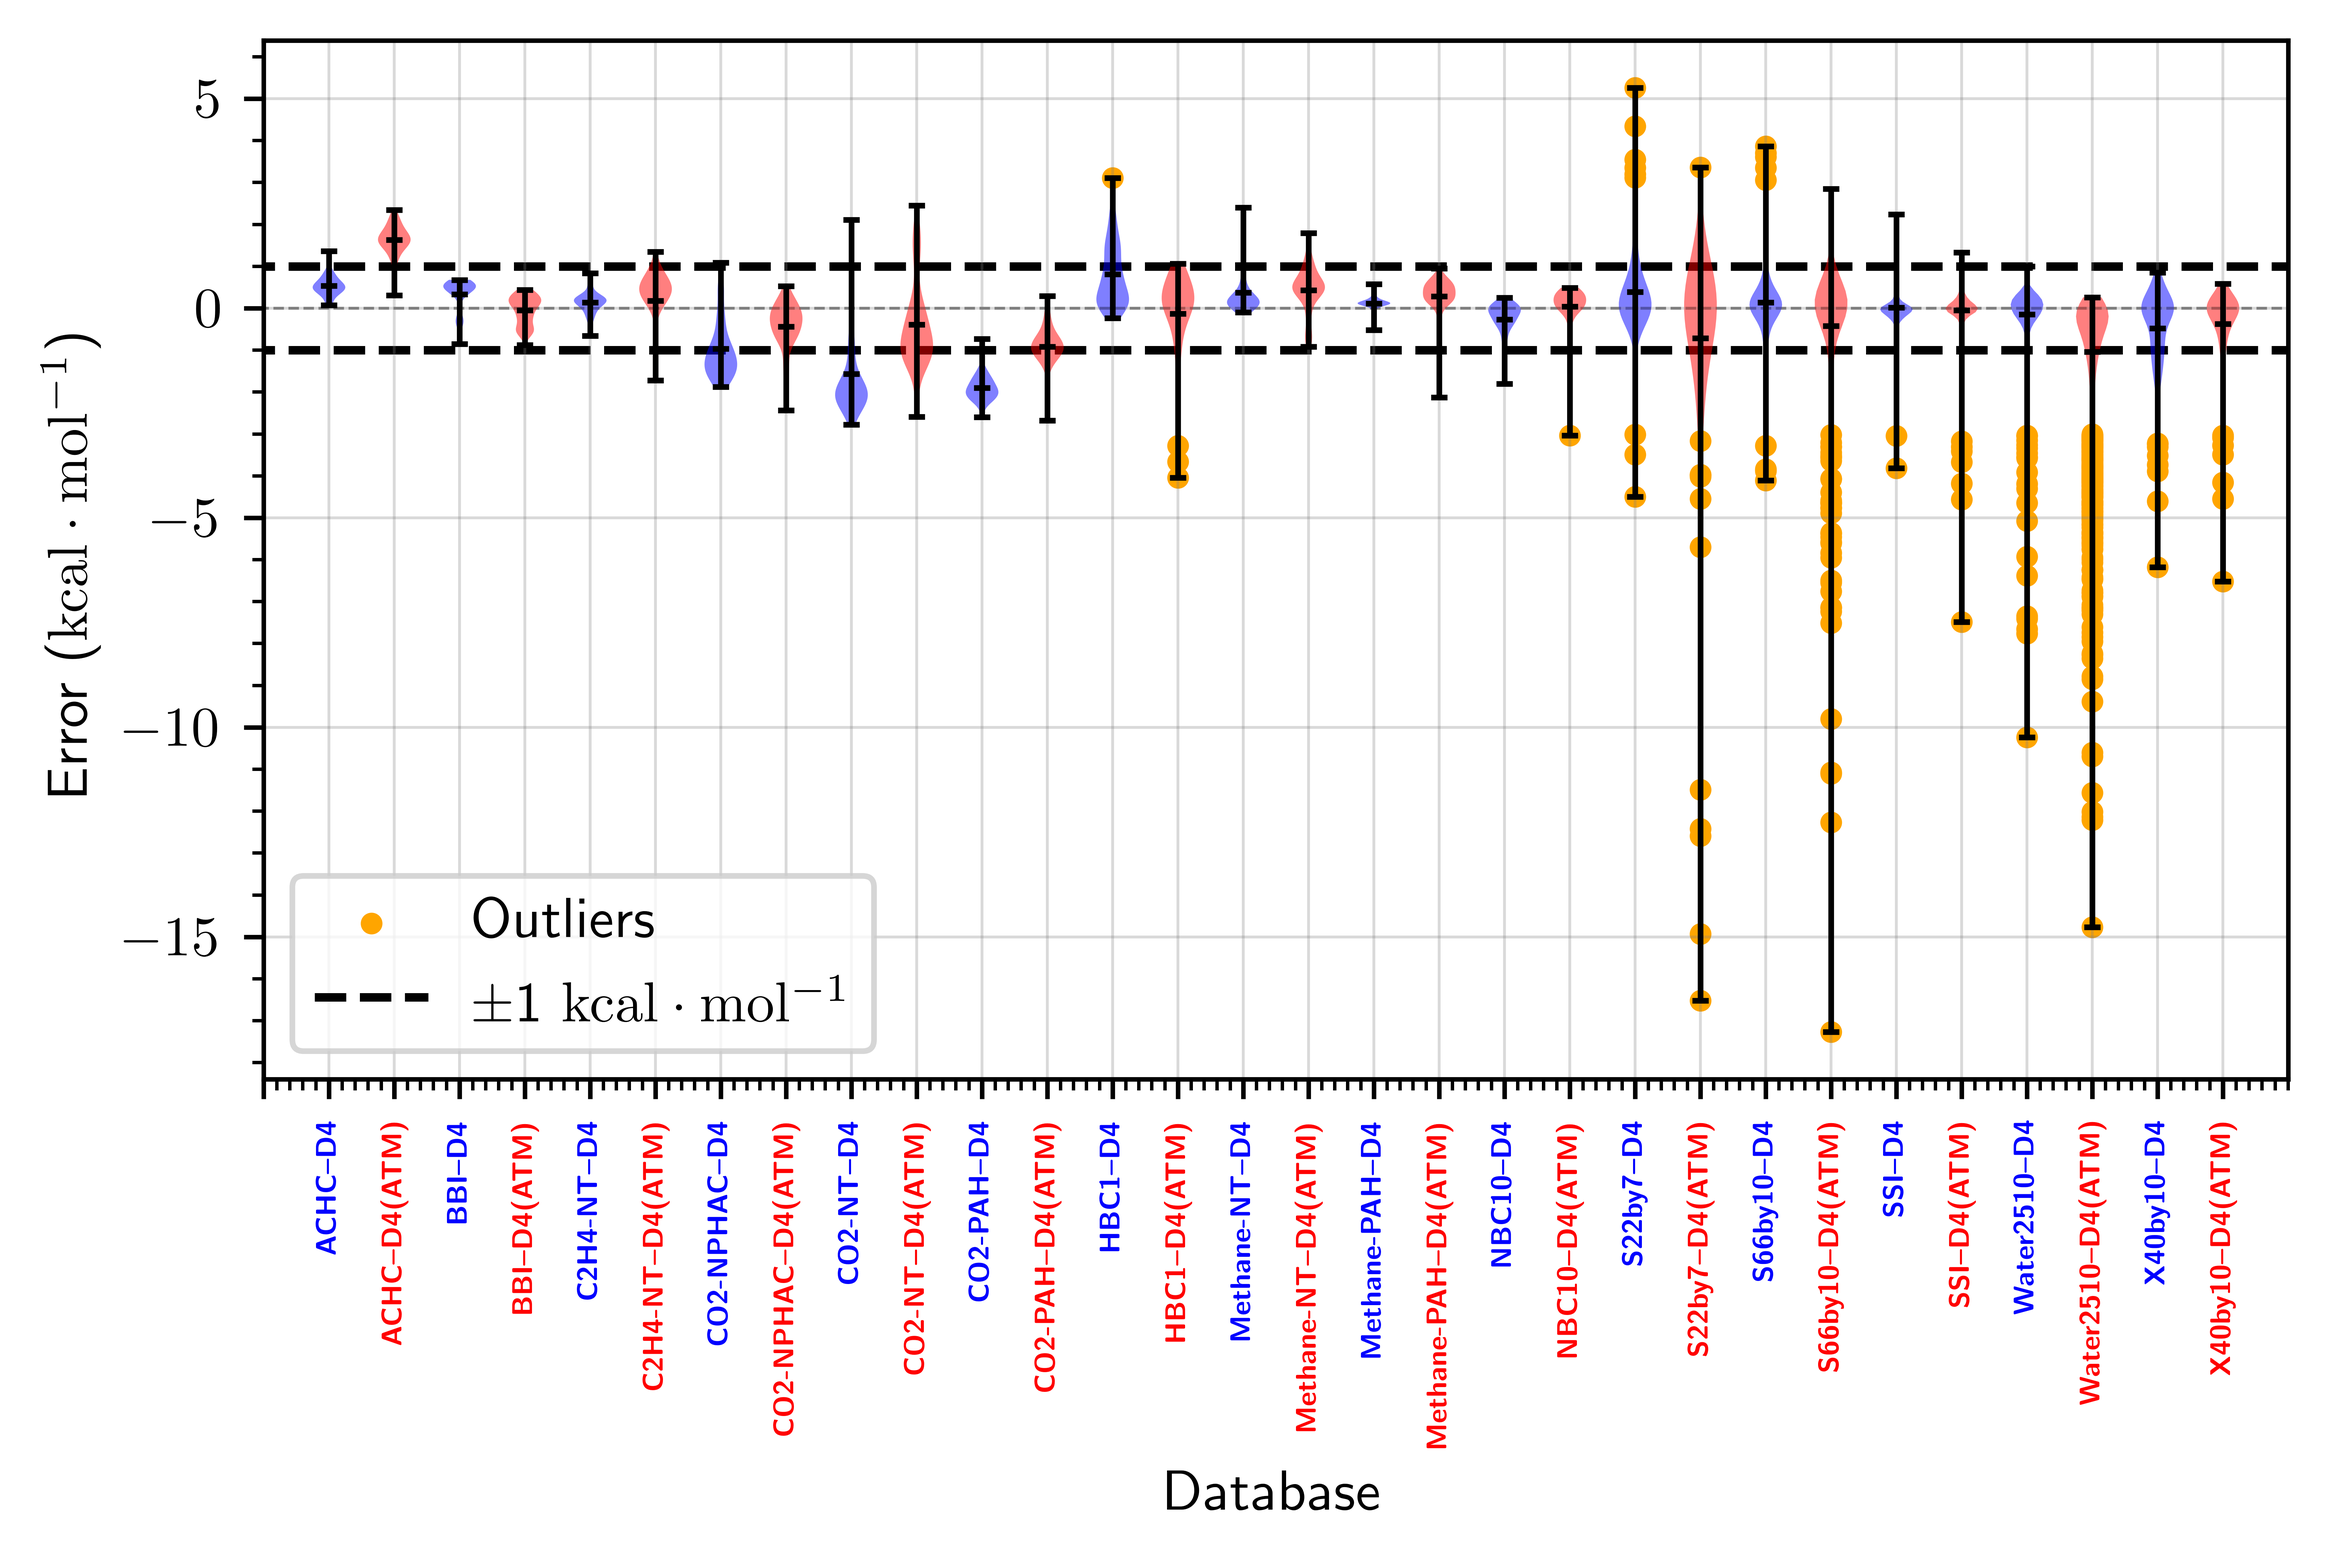
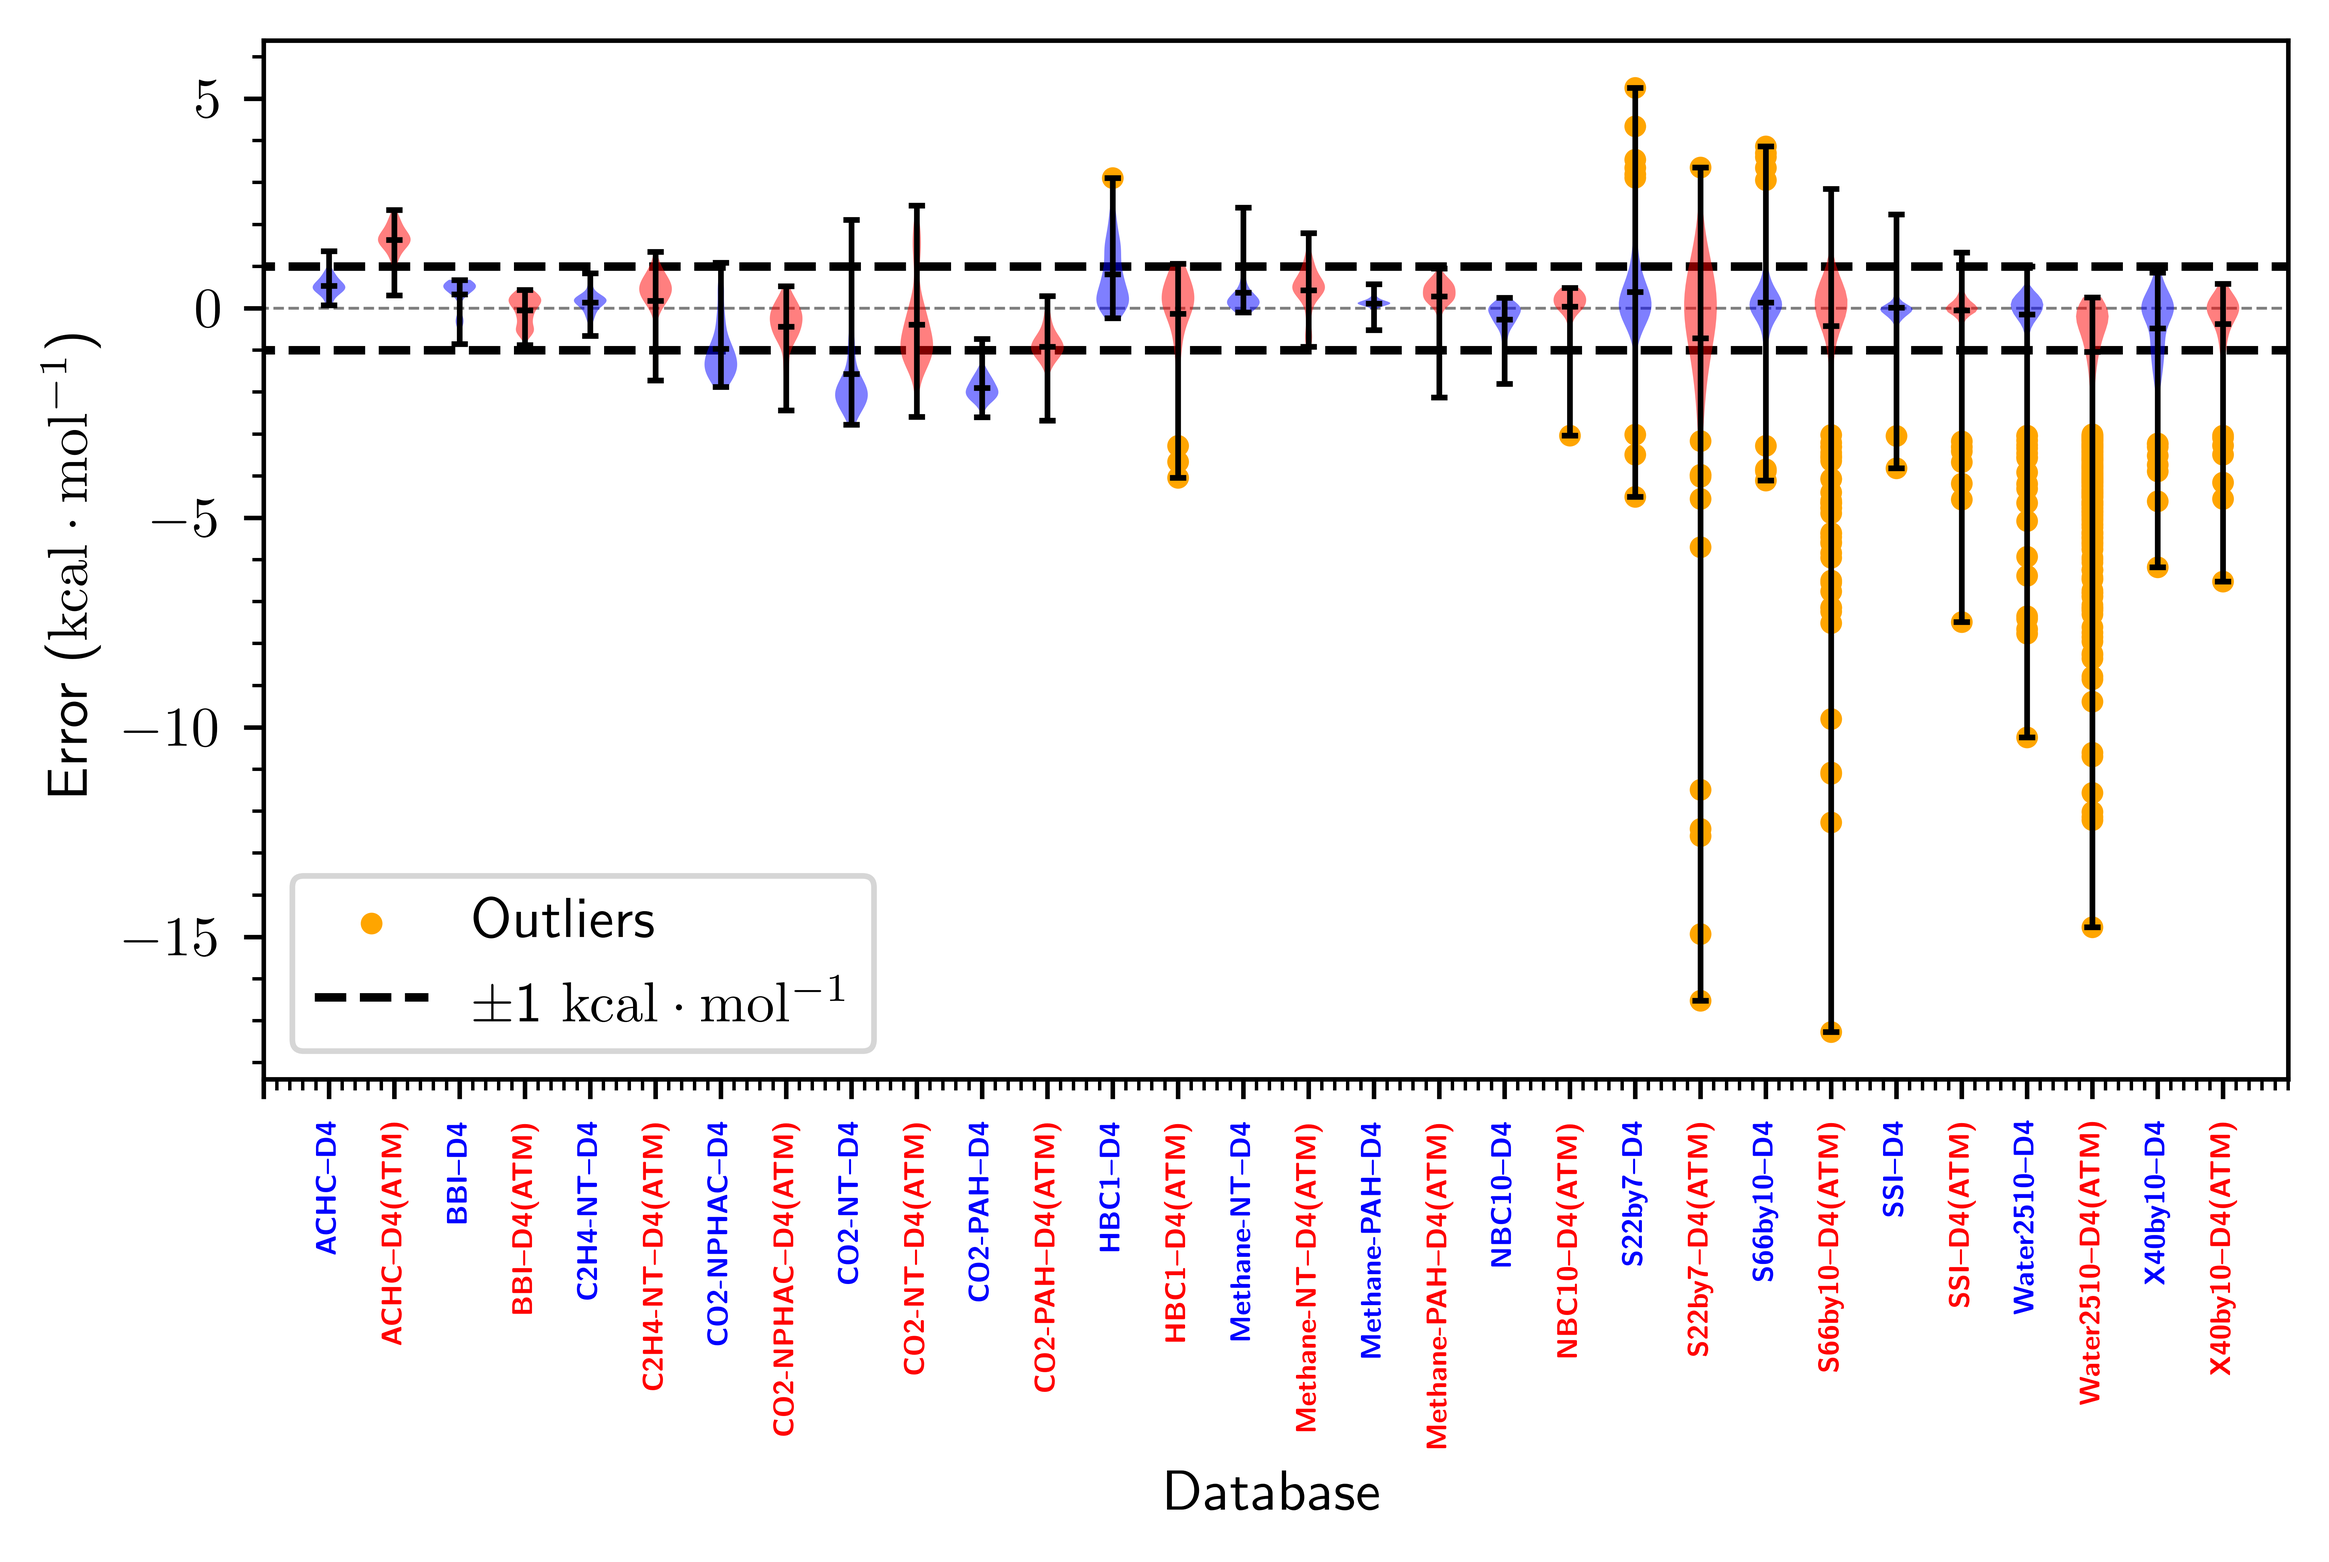
plotting

diff --git a/src/plotting.py b/src/plotting.py
@@ -657,16 +657,6 @@ def plotting_setup(df, build_df=False, df_out: str = "plots/plot.pkl", compute_d
     selected = selected.split("/")[-1].split(".")[0]
     df_out = f"plots/{selected}.pkl"
     if build_df:
-        # print(df.columns.values)
-        # for i in [
-        #     j
-        #     for j in df.columns.values
-        #     if "SAPT0_" in j
-        #     if j not in ["SAPT0", "SAPT0_jdz", "SAPT0_aqz"]
-        #     if "_IE" not in j
-        # ]:
-        #     df[i + "_IE"] = df.apply(lambda r: r[i][0], axis=1)
-        #     df[i + "_diff"] = df["Benchmark"] - df[i + "_IE"]
         df = compute_d4_from_opt_params(
             df,
             bases=[["SAPT0_dz_IE", "SAPT0_dz_3_IE_ATM_SHARED", "HF_ATM_SHARED", "SAPT0_dz_3_IE"]],
@@ -1433,7 +1423,6 @@ def plot_dbs_d3_d4(
     dbs = list(set(df["DB"].to_list()))
     dbs = sorted(dbs, key=lambda x: x.lower())
     vLabels, vData, vDataErrors = [], [], []
-    annotations = []  # [(x, y, text), ...]
     for d in dbs:
         df2 = df[df["DB"] == d]
         vData.append(df2[c1].to_list())
@@ -1455,15 +1444,12 @@ def plot_dbs_d3_d4(
         else:
             vDataErrors.append([])
         d_str = d.replace(" ", "")
-        # vLabels.append(f"{d_str} -{l1}")
-        # vLabels.append(f"{d_str} -{l2}")
         vLabels.append(f"\\textbf{{{d_str}-{l1}}}")
         vLabels.append(f"\\textbf{{{d_str}-{l2}}}")
 
     fig = plt.figure(dpi=800)
     ax = plt.subplot(111)
     vplot = ax.violinplot(vData, showmeans=True, showmedians=False)
-    # for partname in ('cbars', 'cmins', 'cmaxes', 'cmeans', 'cmedians'):
     for n, partname in enumerate(["cbars", "cmins", "cmaxes", "cmeans"]):
         vp = vplot[partname]
         vp.set_edgecolor("black")
@@ -1476,12 +1462,11 @@ def plot_dbs_d3_d4(
         else:
             pc.set_facecolor("red")
         pc.set_alpha(0.5)
-        # pc.set_edgecolor("black")
 
     xs, ys = [], []
     for n, y in enumerate(vDataErrors):
         if len(y) > 0:
-            xs.extend([n + 1 for j in range(len(y))])
+            xs.extend([n + 1 for _ in range(len(y))])
             ys.extend(y)
     print(xs, ys)
     ax.scatter(xs, ys, color="orange", s=8.0, label="Outliers")
@@ -1491,14 +1476,14 @@ def plot_dbs_d3_d4(
     xs_error = [i for i in range(-1, len(vLabels) + 1)]
     ax.plot(
         xs_error,
-        [1 for i in range(len(xs_error))],
+        [1 for _ in range(len(xs_error))],
         "k--",
         label=r"$\pm$1 $\mathrm{kcal\cdot mol^{-1}}$",
         zorder=0,
     )
     ax.plot(
         xs_error,
-        [0 for i in range(len(xs_error))],
+        [0 for _ in range(len(xs_error))],
         "k--",
         linewidth=0.5,
         alpha=0.5,
@@ -1507,7 +1492,7 @@ def plot_dbs_d3_d4(
     )
     ax.plot(
         xs_error,
-        [-1 for i in range(len(xs_error))],
+        [-1 for _ in range(len(xs_error))],
         "k--",
         # label="+-1 kcal/mol",
         zorder=0,
@@ -1528,7 +1513,7 @@ def plot_dbs_d3_d4(
     # ax.set_ylabel(r"Error ($kcal\cdot mol^{-1}$)")
     ax.set_ylabel(r"Error ($\mathrm{kcal\cdot mol^{-1}}$)", color="k")
     # ax.set_ylabel(r"Error ($\frac{kcal}{mol}$)")
-    ax.grid(color="gray", linewidth=0.5, alpha=0.3)
+    # ax.grid(color="gray", linewidth=0.5, alpha=0.3)
     for n, xtick in enumerate(ax.get_xticklabels()):
         if n % 2 != 0:
             xtick.set_color("blue")
